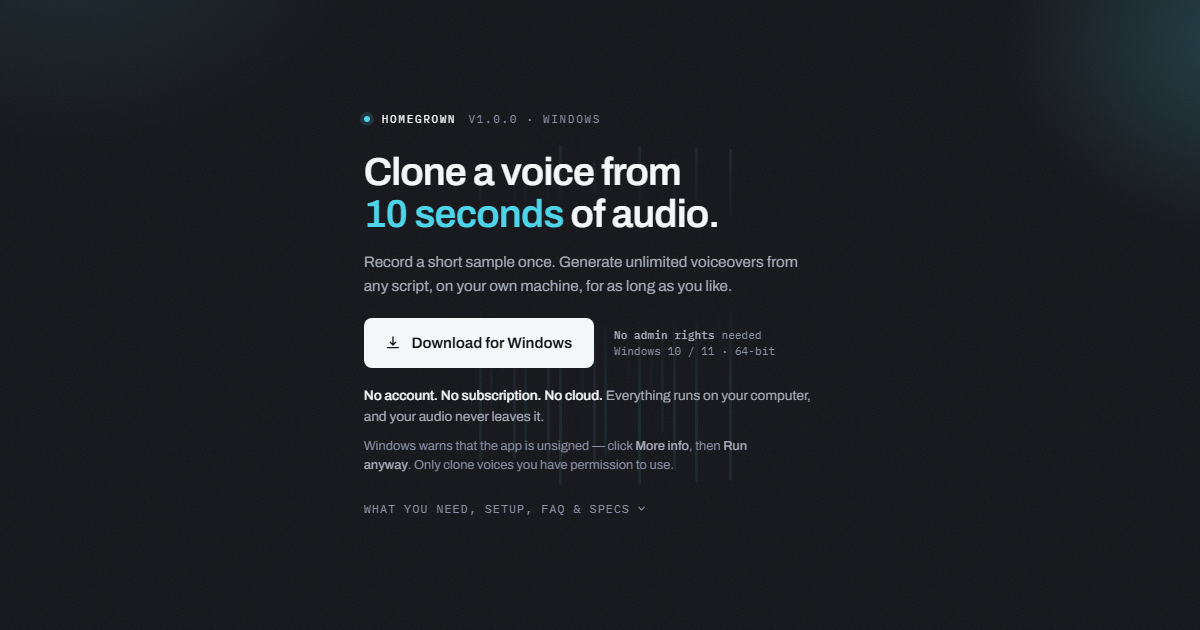
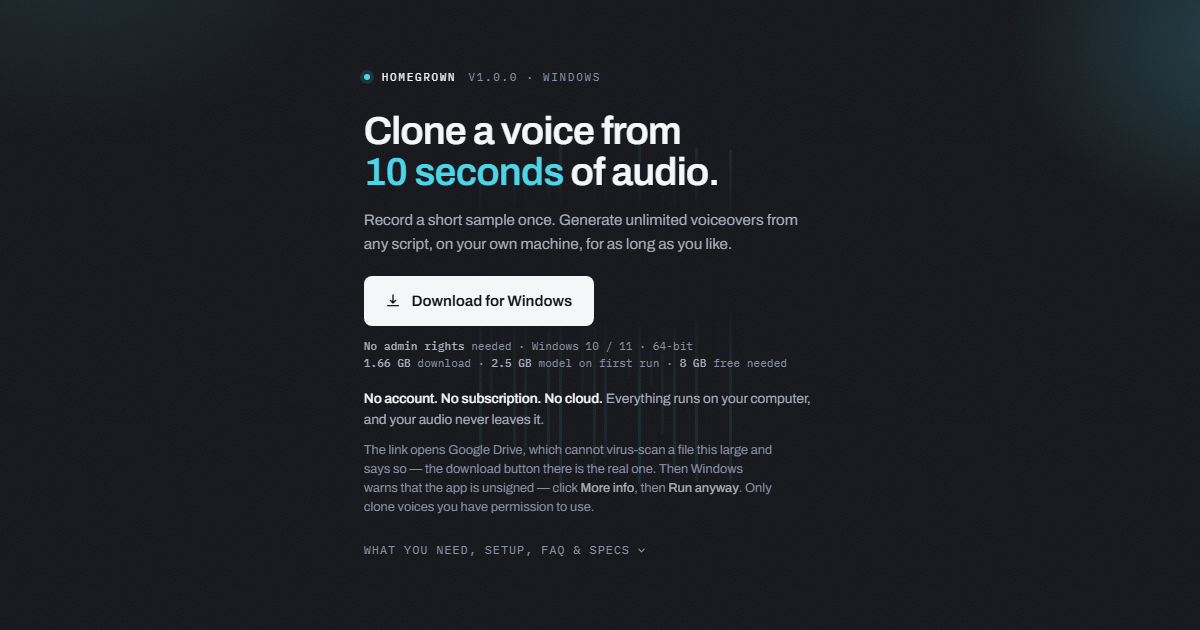
fix(studio): notice when the backend dies, and stop the clock lying about it
A BACKEND THAT DIED MID-SESSION WAS INVISIBLE, and worse than invisible: the
UI fabricated progress. GenerationActivityContext's poller ended in
`.catch(() => {})`, so a failed poll was indistinguishable from no news --
`queue` kept its last value and an in-flight row stayed on screen. useElapsed
advances the clock LOCALLY from its last anchor, so it kept counting up
indefinitely. Its own comment promised "every poll re-anchors it, so it cannot
drift away from what the backend thinks", which is true only while polls
succeed and did not say so. Nothing else noticed: /api/health runs at boot and
when a job FAILS, never on an interval, so modelStatus stayed 'ready'. A
crashed backend.exe, a sleeping machine or a dropped wifi link all landed here.

The poller now counts consecutive failures and exposes `reachable`; three
misses flips StudioShell to the existing modelStatus === 'down', reusing that
banner and its Retry rather than adding a second surface -- Retry already
bumps wakeNonce, which re-runs the health check and recovers.

Three details that are deliberate:

  - CONSECUTIVE, not cumulative. One dropped request while the GPU is busy is
    normal; several in a row is not.
  - the counter RESETS when the effect re-runs on tab-visible. A hidden tab was
    not failing, it was not asking, and counting that gap would fire on return.
  - the flip is DOWNWARD ONLY. /api/queue answering again does not mean the
[…]

diff --git a/frontend/src/GenerationActivityContext.tsx b/frontend/src/GenerationActivityContext.tsx
@@ -18,7 +18,23 @@ interface GenerationActivityValue {
   runningPresetIds: Set<string>
   /** Force an immediate re-poll (after cancel/reorder/submit). */
   refresh: () => void
+  /** False once the poller has missed several polls in a row.
+   *
+   *  A failed poll used to be indistinguishable from no news -- the error was
+   *  swallowed and `queue` kept its last value -- so a backend that died
+   *  mid-session left an in-flight row on screen with a clock still counting
+   *  up. Nothing else notices: health is checked at boot and when a job FAILS,
+   *  never on an interval.
+   *
+   *  Consecutive, not cumulative. One dropped request while the GPU is busy is
+   *  normal; several in a row is not. */
+  reachable: boolean
 }
+
+/** Missed polls before the backend is declared unreachable. Three at the 1s
+ *  active cadence is ~3s of silence -- long enough not to fire on a single
+ *  blip, short enough to beat the user wondering why nothing is moving. */
+const MISSES_BEFORE_UNREACHABLE = 3
 
 const GenerationActivityContext = createContext<GenerationActivityValue | null>(null)
 
@@ -27,21 +43,36 @@ const GenerationActivityContext = createContext<GenerationActivityValue | null>(
 export function GenerationActivityProvider({ children }: { children: ReactNode }) {
   const [queue, setQueue] = useState<QueueEntry[]>([])
   const [nonce, setNonce] = useState(0)
+  const [reachable, setReachable] = useState(true)
   const visible = usePageVisible()
   const queueRef = useRef(queue)
   queueRef.current = queue
+  // Counted in a ref, not state: only crossing the threshold is worth a
+  // re-render, and every miss in between would cause one.
+  const misses = useRef(0)
 
   useEffect(() => {
     if (!visible) return
     let cancelled = false
     let timer: number | undefined
 
+    // A tab that was hidden has not been failing -- it has not been asking.
+    // Resetting here stops the gap being counted as misses on return.
+    misses.current = 0
+
     const tick = () => {
       listQueue()
         .then((r) => {
-          if (!cancelled) setQueue(r.queue)
+          if (cancelled) return
+          setQueue(r.queue)
+          misses.current = 0
+          setReachable(true)
         })
-        .catch(() => {})
+        .catch(() => {
+          if (cancelled) return
+          misses.current += 1
+          if (misses.current >= MISSES_BEFORE_UNREACHABLE) setReachable(false)
+        })
         .finally(() => {
           if (cancelled) return
           const active = queueRef.current.some(
@@ -66,8 +97,9 @@ export function GenerationActivityProvider({ children }: { children: ReactNode }
       anyRunning: runningPresetIds.size > 0,
       runningPresetIds,
       refresh: () => setNonce((n) => n + 1),
+      reachable,
     }
-  }, [queue])
+  }, [queue, reachable])
 
   return (
     <GenerationActivityContext.Provider value={value}>

diff --git a/frontend/src/components/VoicePicker.tsx b/frontend/src/components/VoicePicker.tsx
@@ -3,6 +3,7 @@ import type { KeyboardEvent as ReactKeyboardEvent } from 'react'
 import { mediaUrl, type Preset } from '../api'
 import { useAudioActivity } from '../AudioActivityContext'
 import { useGenerationActivity } from '../GenerationActivityContext'
+import { usePrefersReducedMotion } from '../hooks/usePrefersReducedMotion'
 import { PauseIcon, PlayIcon } from './Icons'
 
 interface Props {
@@ -44,6 +45,14 @@ export default function VoicePicker({
   const audioRef = useRef<HTMLAudioElement | null>(null)
   const { setActiveAudio, releaseAudio } = useAudioActivity()
   const { runningPresetIds } = useGenerationActivity()
+  const reduced = usePrefersReducedMotion()
+  // The busy dot pulsed regardless of prefers-reduced-motion. Its duration is a
+  // literal 1.4s in --animate-pulse-soft, not one of the --fast/--base/--slow
+  // tokens the reduced-motion block in tokens.css zeroes, so that block never
+  // touched it -- and it ran for the whole generation, minutes at a time. It
+  // was the only infinite animation in the app not gated this way; boot-spin
+  // and sheen both already were. The ELEMENT stays either way, so the voice is
+  // still marked as busy without the motion.
 
   const selected = presets.find((p) => p.id === selectedPresetId) ?? null
   const generating = selected != null && runningPresetIds.has(selected.id)
@@ -151,7 +160,7 @@ export default function VoicePicker({
         <span className="overflow-hidden text-ellipsis whitespace-nowrap">{selected ? selected.name : 'Choose a voice…'}</span>
         {generating && (
           <span
-            className="size-1.5 rounded-full bg-progress animate-pulse-soft"
+            className={`size-1.5 rounded-full bg-progress ${reduced ? '' : 'animate-pulse-soft'}`}
             title={`${selected?.name} is generating`}
             aria-hidden="true"
           />
@@ -181,7 +190,7 @@ export default function VoicePicker({
                 <span className="overflow-hidden text-ellipsis whitespace-nowrap">{p.name}</span>
                 {runningPresetIds.has(p.id) && (
                   <span
-                    className="size-1.5 rounded-full bg-progress animate-pulse-soft"
+                    className={`size-1.5 rounded-full bg-progress ${reduced ? '' : 'animate-pulse-soft'}`}
                     title={`${p.name} is generating`}
                     aria-hidden="true"
                   />

diff --git a/frontend/src/hooks/useElapsed.ts b/frontend/src/hooks/useElapsed.ts
@@ -7,8 +7,15 @@ import type { QueueEntry } from '../api'
  * is active, and not at all in a background tab), so rendering it directly
  * gives a clock that stutters and then jumps. This anchors on the last value
  * the backend reported and advances locally from there, which keeps the
- * readout honest -- every poll re-anchors it, so it can never drift away from
- * what the backend thinks.
+ * readout honest -- every poll re-anchors it, so it cannot drift away from what
+ * the backend thinks.
+ *
+ * THAT GUARANTEE HOLDS ONLY WHILE POLLS SUCCEED, which this comment used to
+ * leave unsaid. With a dead backend nothing re-anchors, and the local advance
+ * kept counting -- so a crashed process, a sleeping machine or a dropped wifi
+ * link produced a row that looked like it was still generating, indefinitely.
+ * `live` freezes the readout at its last real value instead. A stopped clock
+ * is honest about not knowing; a running one is a claim.
  *
  * Deliberately elapsed and not an estimate: `eta_s` comes from a rolling
  * chars/second average and moves in both directions as chunks land, which is
@@ -27,11 +34,16 @@ interface Anchor {
   at: number
 }
 
-export function useElapsed(job: QueueEntry | undefined): number | null {
+export function useElapsed(job: QueueEntry | undefined, live = true): number | null {
   const [seconds, setSeconds] = useState<number | null>(null)
   const jobRef = useRef<QueueEntry | undefined>(job)
   jobRef.current = job
   const anchor = useRef<Anchor>({ jobId: '', reported: -1, at: 0 })
+
+  // A ref so losing contact does not tear down and re-arm the interval -- the
+  // tick simply stops committing new values.
+  const liveRef = useRef(live)
+  liveRef.current = live
 
   const jobId = job?.job_id
   useEffect(() => {
@@ -42,6 +54,7 @@ export function useElapsed(job: QueueEntry | undefined): number | null {
     }
 
     const tick = () => {
+      if (!liveRef.current) return // frozen: keep the last committed value
       const current = jobRef.current
       if (!current || current.elapsed_s == null) {
         setSeconds(null)

diff --git a/frontend/src/components/StudioShell.tsx b/frontend/src/components/StudioShell.tsx
@@ -106,7 +106,7 @@ export default function StudioShell() {
   const [error, setError] = useState<string | null>(null)
   const [estimate, setEstimate] = useState<Estimate | null>(null)
 
-  const { queue, refresh: refreshQueue } = useGenerationActivity()
+  const { queue, refresh: refreshQueue, reachable } = useGenerationActivity()
   useJobToasts(queue)
   // Both error STATES are mirrored to toasts rather than rendered inline.
   // voiceError used to draw a banner inside the voices dialog, which grew
@@ -252,6 +252,18 @@ export default function StudioShell() {
   // the new voiceover belongs there anyway, so refresh in place; scrolled down,
   // count it and let them choose when to jump. atTopRef, not state, so this
   // effect does not re-run on every scroll event.
+  // A backend that stops answering is reported through the SAME 'down' state a
+  // failed boot uses, so the existing banner and its Retry do the work -- Retry
+  // already bumps wakeNonce, which re-runs the health check and recovers.
+  //
+  // Only downward. Coming back is the health check's job, not the queue
+  // poller's: /api/queue answering again does not mean the model reloaded, and
+  // flipping to 'ready' here would clear the banner while generation is still
+  // impossible.
+  useEffect(() => {
+    if (!reachable) setModelStatus('down')
+  }, [reachable])
+
   // Check health whenever a job has just failed. Cheap (only on transition)
   // and it cannot miss the fault, because the fault is what produced the
   // failure.

diff --git a/frontend/src/components/HistoryList.tsx b/frontend/src/components/HistoryList.tsx
@@ -235,8 +235,15 @@ function PendingRow({
   // the partial audio is discarded, so "undo" could only mean re-queueing from
   // scratch and paying the whole render again.
   const [confirmingCancel, setConfirmingCancel] = useState(false)
+  // Read from context rather than threaded through the map -- PendingRow is a
+  // sibling component, not a closure over HistoryList's scope.
+  const { reachable } = useGenerationActivity()
+  // useOptimisticProgress is deliberately NOT frozen: it is self-bounding, it
+  // never crosses the next chunk boundary, so with a dead backend it stalls
+  // within one chunk instead of running away. The clock had no such bound --
+  // it counted up forever -- which is why only it needs this.
   const progress = useOptimisticProgress(running ? job : undefined)
-  const elapsed = useElapsed(job)
+  const elapsed = useElapsed(job, reachable)
   const reduced = usePrefersReducedMotion()
 
   const total = job.total_chunks || 0

diff --git a/CLAUDE.md b/CLAUDE.md
@@ -292,6 +292,30 @@ No state library — `StudioShell.tsx` holds most state, plus two contexts:
   Ctrl key and a large tablet still does not. Verified emitted **only** inside the media query --
   one occurrence each of `.coarse\:hidden` and `.coarse\:pr-3`, zero unconditional.
 
+- **A backend that dies mid-session is detected by the QUEUE POLLER, not by a health interval.**
+  There is no periodic `/api/health` — it runs at boot (`wakeNonce`) and when a job *fails*. So
+  `GenerationActivityContext` counts **consecutive** failed polls and exposes `reachable`; three
+  misses (~3s at the active cadence) flips `StudioShell` to the existing `modelStatus === 'down'`,
+  reusing that banner and its Retry rather than inventing a second surface. Retry already bumps
+  `wakeNonce`, which re-runs the health check and recovers.
+  Three things that are easy to get wrong and are deliberate: the count is **consecutive, not
+  cumulative** (one dropped request while the GPU is busy is normal); the count is **reset when the
+  effect re-runs on tab-visible**, because a hidden tab was not failing, it was not asking; and the
+  flip is **downward only** — `/api/queue` answering again does not mean the model reloaded, so
+  clearing the banner is the health check's job.
+  **`useElapsed` takes a `live` flag and freezes when it is false.** Its advance is local, so before
+  this a dead backend produced a row that counted up forever — the comment claiming "every poll
+  re-anchors it, so it cannot drift" was true only while polls succeed, which it did not say.
+  `useOptimisticProgress` is deliberately NOT frozen: it never crosses the next chunk boundary, so it
+  stalls within one chunk instead of running away. The clock had no such bound.
+
+- **`animate-pulse-soft` is gated on `prefers-reduced-motion` at both `VoicePicker` call sites.** Its
+  duration is a literal `1.4s` in `--animate-pulse-soft`, **not** one of the `--fast/--base/--slow`
+  tokens the reduced-motion block in `tokens.css` zeroes — so that block never touched it and the
+  busy dot pulsed for whole generations. It was the last infinite animation in the app not gated this
+  way (`boot-spin` and `sheen` already were). The element stays when reduced; only the motion goes,
+  so the voice is still marked busy.
+
 - **`modal-body` is a JS hook with no CSS rule, and deleting it silently breaks focus.**
   `Modal.tsx`'s open effect queries `.modal-body` to land focus on the dialog body's first
   control. The class was absent for a long time, so the query always missed and focus fell

diff --git a/README.md b/README.md
@@ -534,6 +534,7 @@ Environment overrides:
 | LAN clients load the UI but every action fails | `VITE_BACKEND_URL` was set when you built (or, in dev, is set at all). Comment it out in `frontend/.env.local` and rebuild. `start_server.bat` now catches this before it starts. |
 | `no kernel image is available for execution on the device` | The torch build has no kernels for your GPU. cu126 covers `sm_50`–`sm_90`; Blackwell needs cu128. |
 | `CUDA error: the launch timed out and was terminated` | Windows TDR killed a GPU batch running over ~2s on a display-attached card. It kills the whole process's CUDA context, so the running voiceover **and everything queued behind it** fail together — the app detects this (`gpu_fault`), hides Retry and asks you to restart, because nothing in-app can recover it. Lower `DECODE_CHUNK_FRAMES`, and do not run two model processes at once. |
+| Red banner, and an in-flight row whose clock has stopped | The backend stopped answering — crashed, machine asleep, network dropped. **Retry** in the banner re-checks it. Jobs may still be running server-side; the app has only lost contact. |
 | Yellow "Running on CPU" banner | No usable GPU was found; the reason is in the banner and in `/api/health`. |
 | Output murmurs, drags, or drops words | Almost always the reference clip — see "Making a voice that actually works". |
 | Output has echo | Reverb in your reference clip. Re-record dry and close-mic. |

diff --git a/docs/workflow.md b/docs/workflow.md
@@ -146,7 +146,9 @@ included. A job you cancel yourself does not linger — you already know it stop
 The voice dropdown stays usable while a job runs, so you can line up the next one.
 
 There is no queue list and no reorder control in the UI, although `POST /api/queue/reorder` exists and
-works. If the backend becomes unreachable, an error row with a **Retry** button appears above the script.
+works. If the backend becomes unreachable — it crashed, the machine slept, the wifi dropped — an error
+row with a **Retry** button appears above the script, and any in-flight row **stops its clock** rather
+than counting up against a process that may be gone.
 
 **Generate shows an estimate first** — "Generation will take about 25 min". Rounded deliberately, and
 it **does not respond to the voice**: it comes from the character count and one global chars/second
